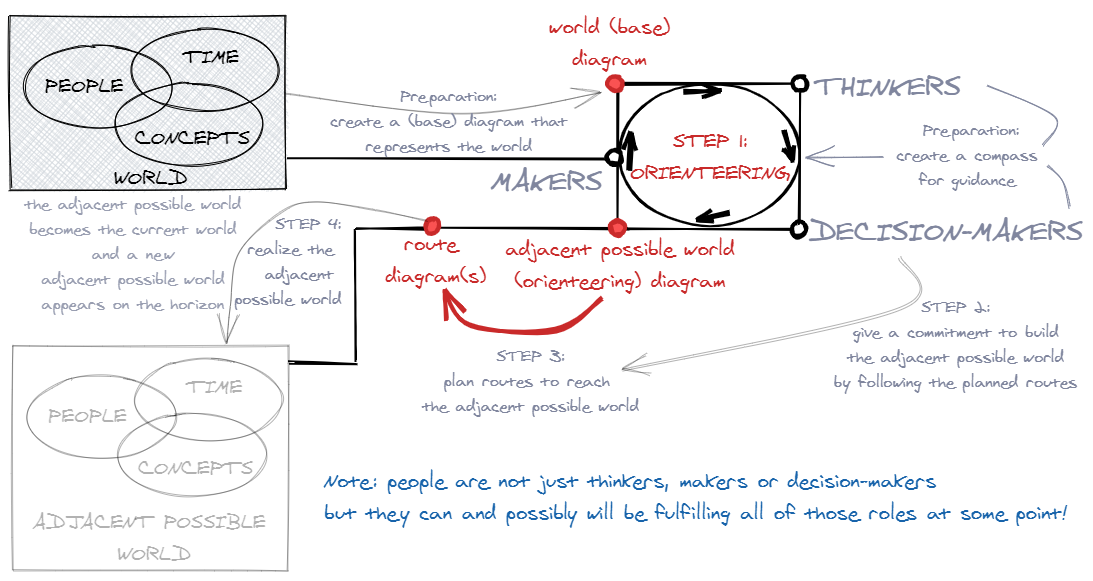
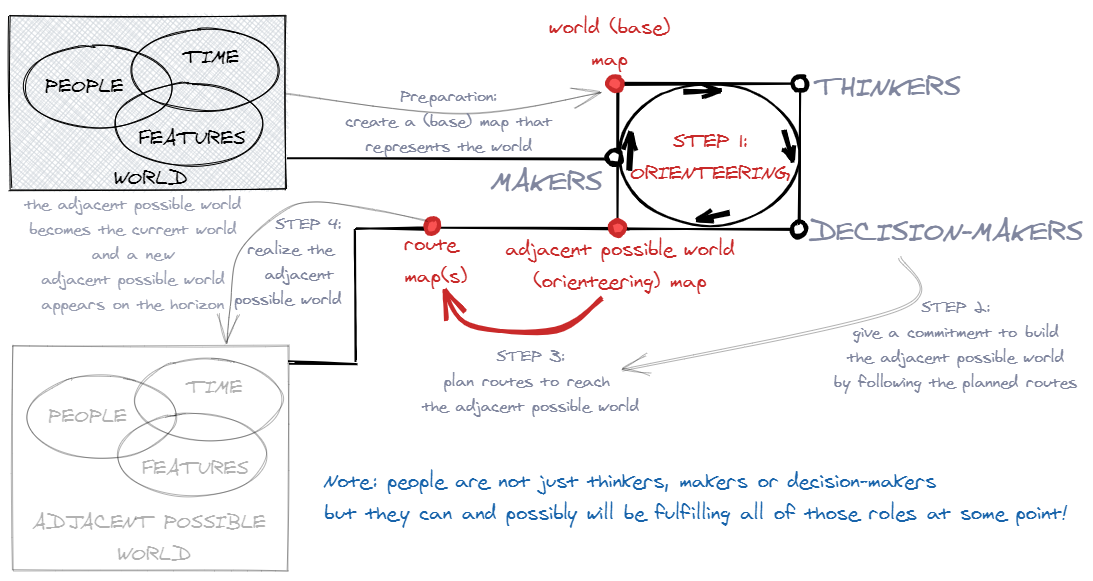
Add files via upload

diff --git a/index.html b/index.html
@@ -37,7 +37,10 @@
             <div>
                <br>
                Involve people who must realize the change as early as possible so that it will be sure that the essential features will be mapped and can be made (if they not exist yet) and connected. So that there will be a map that can be used and improved by anybody. 
-            </div><br><br>
+            </div><br>
+               <br>
+               <div><img src="images/Orienteering.png" alt="Diagramming"></div>
+               <br><br>
             <h2>Number of players</h2>
             <div>
                <br>
@@ -62,24 +65,43 @@
             <div>
                <br>
                The world is the area that really matters, right here, right now for the orienteers. 
+               <br>
+               <br>
+               <div><img src="images/World.png" alt="Diagramming"></div>
                <br><br>
                <ul>
                   <li>What should be left out of scope?</li>
                   <li>What are the world’s key already existing key features (landmarks) that must be kept on the map?</li>
                   <li>What are the world’s key existing features that must be removed or replaced?</li>
                </ul>
+               <br>
+               Select features that are vital to the intent of your map; unnecessary features should not be selected. This will reduce clutter and enhance the reader’s ability to focus on what is most important on a map.
+               Questions to ask when making selections:
+               <br><br>
+               <ul>
+                  <li>Is the feature necessary to make vour point?</li>
+                  <li>Will removing the feature make the map harder to understand?</li>
+                  <li>If less important features are removed, do more important features stand out more clearly?</li>
+                  <li>does removal of less important features lead to a less cluttered and busy-looking map?</li>
             </div><br><br>
             <h3>The Actors</h3>
             <div>
                <br>
-               [work in progress]
+               <br>
+               <div><img src="images/Actors.png" alt="Diagramming"></div>
+               <br><br>
+               <ul>
+                  <li>Makers, people who are direct connected with the world and can change the world</li>
+                  <li>Thinkers, people who work with reresentations of the world so that makers and decision-makers can make sense of the world and the proposed changes</li>
+                  <li>Decision-makers, people who approve proposed changes</li>
+               </ul>
+               <br>
             </div><br><br>
             <h3>Their Goals</h3>
             <div>
                <br>
-               <div><img src="images/Orienteering.png" alt="Diagramming"></div>
+               <div><img src="images/Goal.png" alt="Diagramming"></div>
                <br><br>
-               [work in progress]
             </div><br><br>
             <h3>The Rules</h3>
             <div>
